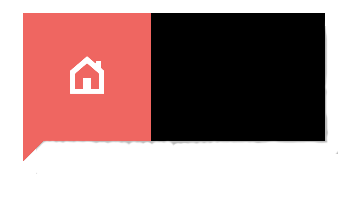
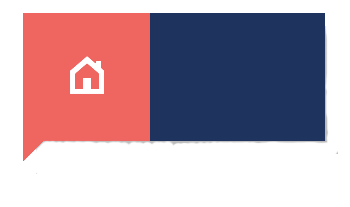
Modif image

diff --git a/css/style.css b/css/style.css
@@ -317,7 +317,7 @@ section.page {margin-top:60px;padding:40px 0;}
 
 /* contacts form */
 #contacts .get-in-touch {position:absolute;top:0;right:0;z-index:4;width:450px;left:50%;top:160px;margin-left:62px;box-sizing:border-box;-moz-box-sizing:border-box;-webkit-box-sizing:border-box;}
-#contacts .get-in-touch input, #contacts .get-in-touch textarea, #contacts .get-in-touch button {display:block;width:100%;border:0;background-color:#000;color:#fff;padding:10px;margin-bottom:8px;box-sizing:border-box;-moz-box-sizing:border-box;-webkit-box-sizing:border-box;}
+#contacts .get-in-touch input, #contacts .get-in-touch textarea, #contacts .get-in-touch button {display:block;width:100%;border:0;background-color:#1E345F;color:#fff;padding:10px;margin-bottom:8px;box-sizing:border-box;-moz-box-sizing:border-box;-webkit-box-sizing:border-box;}
 #contacts .get-in-touch input.error, #contacts .get-in-touch textarea.error {background-color:#ef6661;}
 #contacts .get-in-touch textarea {height:120px;resize:none;}
 #contacts .get-in-touch .col {float:left;width:31.53333333333%;margin-left:1.8003%;text-align:center;}
